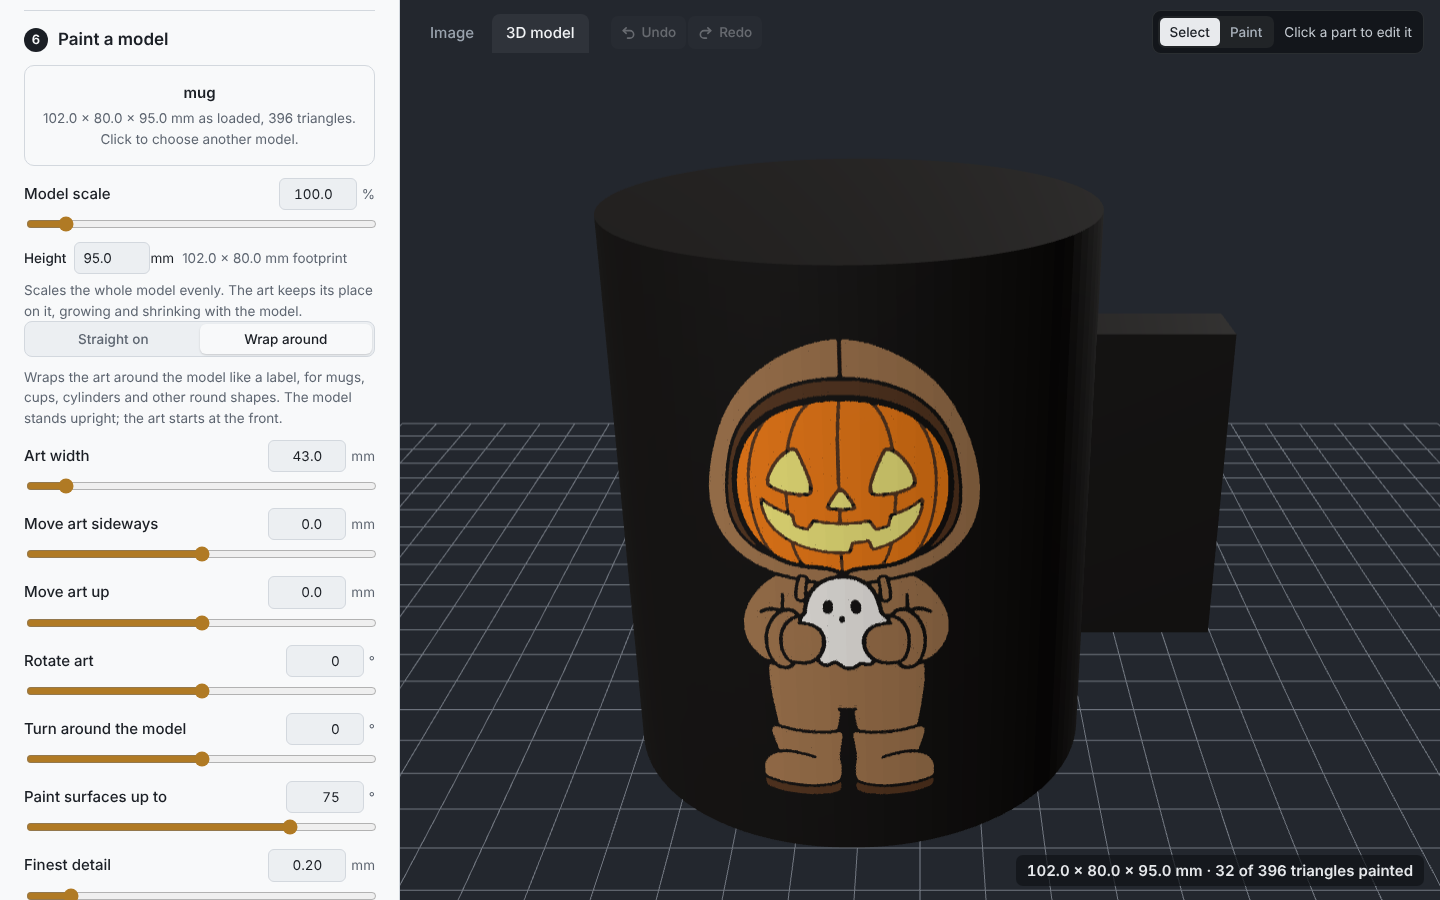
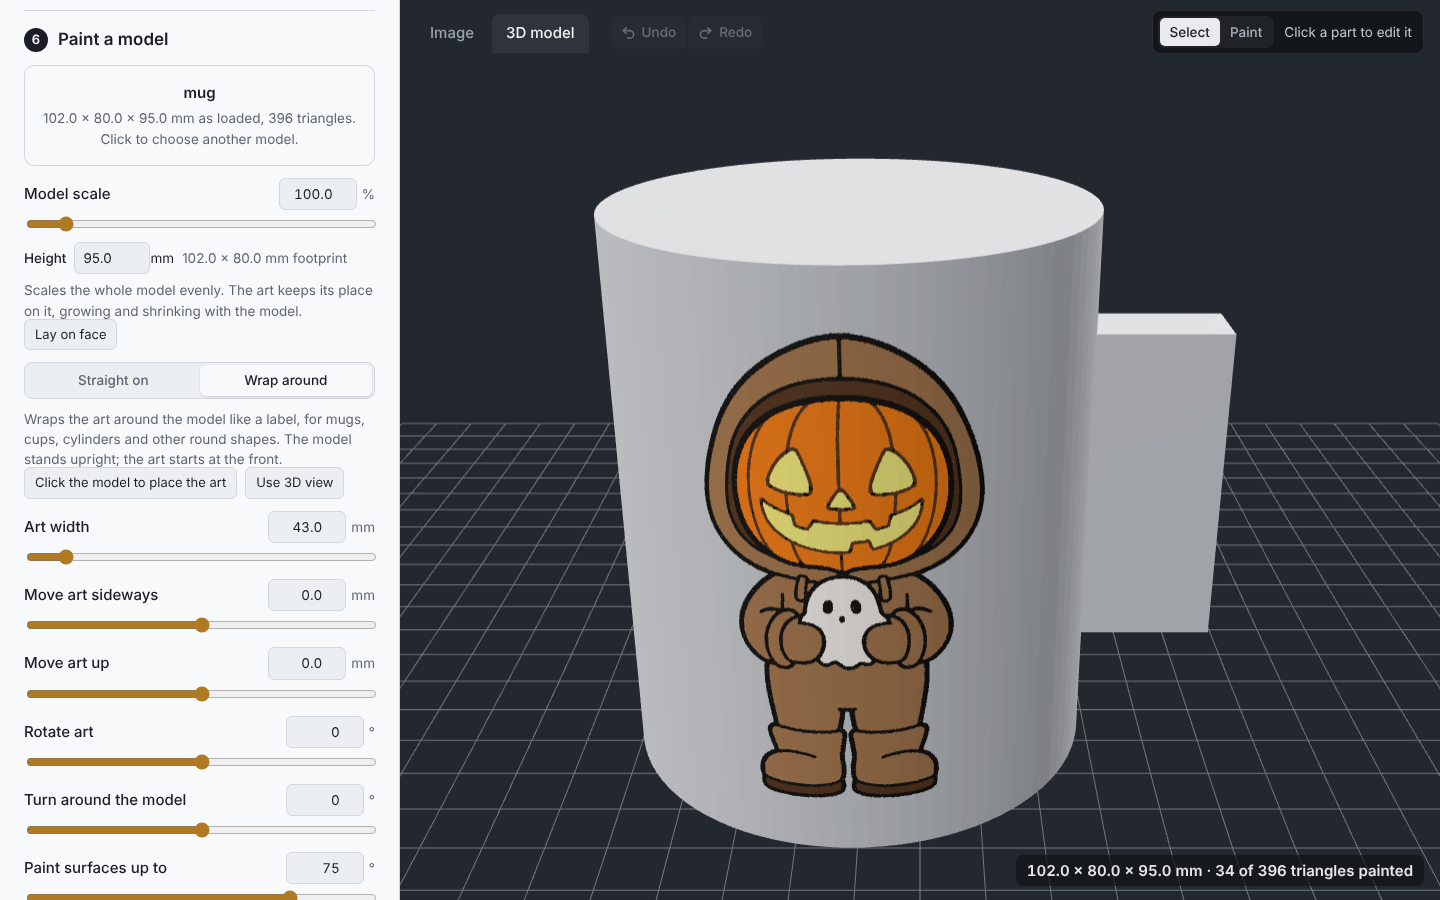
Pre-release: readable plugin, undo for 3D actions, fresh screenshots
- Plugin: the page is stored as plain text in short string literals
  (no zlib/base64 blob) and the unused browser-opening command is gone,
  for Orca Cloud review. Verified loading, the tab and Reset in
  OrcaSlicer 2.5.1.
- Undo/redo now restore Lay on face and Click to place (orientation,
  clicked spot and view direction), re-aiming the camera only when the
  model turned.
- README screenshots retaken with the current UI.

Claude-Session: https://claude.ai/code/session_01VHt89tUmM73nKs4biTZbJL

Changed region(s): [[0.4062, 0.1556, 0.875, 0.9644], [0.0, 0.3422, 0.25, 0.7778], [0.0, 0.8089, 0.2812, 1.0]]

diff --git a/src/app.html b/src/app.html
@@ -1899,8 +1899,11 @@ function takeSnapshot() {
     prep: p, labels, labelsId, gen: S.gen, mirror: S.mirror,
     regions: S.regions.map(r => ({ ...r })), stats: S.stats,
     baseColor: $('baseColor').value, baseSpool: S.baseSpool || null, controls: controlState(), rimCustom: { ...S.rimCustom }, textC: { ...S.textC },
+    // Paint a model: which way the model lies and where the art was clicked into place, so undo covers those too
+    paint: S.modelOrig ? { orig: S.modelOrig, click: S.pmClick ? JSON.parse(JSON.stringify(S.pmClick)) : null, viewDir: S.pmViewDir, viewUp: S.pmViewUp || null } : null,
   };
-  snap.key = JSON.stringify([snap.gen, snap.mirror, snap.regions.map(r => [r.name, r.filament, r.height, r.merge, r.pixels, r.spool && spoolKey(r.spool), r.stamp]), snap.baseColor, snap.baseSpool && spoolKey(snap.baseSpool), snap.controls, Object.values(snap.rimCustom).map(c => c && [c.color, c.spool && spoolKey(c.spool)]), [snap.textC.color, snap.textC.spool && spoolKey(snap.textC.spool)]]) + '|' + labelsId;
+  if (snap.paint && !snap.paint.orig.uid) snap.paint.orig.uid = ++H.seq;
+  snap.key = JSON.stringify([snap.gen, snap.mirror, snap.regions.map(r => [r.name, r.filament, r.height, r.merge, r.pixels, r.spool && spoolKey(r.spool), r.stamp]), snap.baseColor, snap.baseSpool && spoolKey(snap.baseSpool), snap.controls, Object.values(snap.rimCustom).map(c => c && [c.color, c.spool && spoolKey(c.spool)]), [snap.textC.color, snap.textC.spool && spoolKey(snap.textC.spool)], snap.paint && [snap.paint.orig.uid, snap.paint.click, snap.paint.viewDir, snap.paint.viewUp]]) + '|' + labelsId;
   return snap;
 }
 function recordState() {
@@ -1937,6 +1940,15 @@ function restoreSnapshot(s) {
     }
     renderRegions(); renderRimOptions();
     for (const [el, v] of selects) if ([...el.options].some(o => o.value === v)) el.value = v;
+    if (s.paint) {
+      // rebuild the model at the restored scale from the restored orientation (S.model = null so nothing is rescaled twice)
+      const turned = S.modelOrig !== s.paint.orig, keepView = !!(gl && gl.framed && !turned);
+      S.modelOrig = s.paint.orig; S.model = null;
+      S.pmClick = s.paint.click ? JSON.parse(JSON.stringify(s.paint.click)) : null; S.pmViewDir = s.paint.viewDir; S.pmViewUp = s.paint.viewUp;
+      applyModelScale(false); if (keepView) gl.framed = true; // only re-aim the camera when the model turned
+      $('pmLayReset').hidden = S.modelOrig === S.modelLoaded;
+      setPlacing(false); setLaying(false); syncPmMode();
+    }
     syncRimField(); $('imgHField').hidden = !$('uniformH').checked; $('fFields').hidden = !$('fOn').checked; $('ckStampFields').hidden = !$('ckStamp').checked; syncCoinMode(); syncKcShape(); syncTextUI(); syncTextFil();
     if (typeof syncSize === 'function' && S.gen === 'tray') syncSize();
     drawThumbs(); drawPreview(); renderPaintSwatches();
@@ -2770,10 +2782,6 @@ if (ORCA) {
   const syncTheme = () => { const t = root.getAttribute('data-orca-theme'); if (t === 'dark' || t === 'light') root.dataset.theme = t; };
   syncTheme(); new MutationObserver(syncTheme).observe(root, { attributes: true, attributeFilter: ['data-orca-theme'] });
   root.style.setProperty('--focus', 'var(--orca-accent, #009688)');
-  document.addEventListener('click', e => {
-    const a = e.target.closest && e.target.closest('a[target=_blank]'); if (!a) return;
-    e.preventDefault(); window.orca.postMessage({ cmd: 'open', url: a.href });
-  });
   const askSlots = () => { if (alive()) window.orca.postMessage({ cmd: 'hello' }); };
   $('slotRefresh').addEventListener('click', askSlots);
   // Reset: the plugin sends a fresh copy of this page, which replaces the document in place.

diff --git a/plugin/plugin_template.py b/plugin/plugin_template.py
@@ -22,14 +22,13 @@ part its filament slot; it carries no printer or filament settings, so Orca keep
 
   page   --{cmd: 'hello'}-->            plugin   (replies {cmd: 'slots', slots, plate})
   page   --{cmd: 'send', name, b64}-->  plugin   (writes the 3MF, hands it to Orca, replies {cmd: 'sent'})
-  page   --{cmd: 'open', url}-->        plugin   (opens a link in the default browser)
+  page   --{cmd: 'reset'}-->            plugin   (replies {cmd: 'page', html}: a fresh copy of the page)
 """
 import base64
 import os
 import re
 import subprocess
 import sys
-import zlib
 
 import orca
 
@@ -38,14 +37,16 @@ PLUGIN_DIR_NAME = "maker-generators"
 KEEP_SENT_FILES = 12
 MAX_MODEL_BYTES = 300 * 1024 * 1024
 
-# The generator page: one self-contained HTML file (three.js and fonts inlined), zlib + base64.
-_PAGE_Z = (
+# The generator page: one self-contained HTML file, stored as plain text so it can be read and reviewed.
+# It is the web app from the project's src/ folder with three.js (MIT) and the Google Fonts it uses
+# (SIL Open Font License) inlined, so the plugin works offline. Built by tools/build.py.
+_PAGE = (
 __PAGE_DATA__
 )
 
 
 def page_html():
-    return zlib.decompress(base64.b64decode("".join(_PAGE_Z))).decode("utf-8")
+    return "".join(_PAGE)
 
 
 # ---------------------------------------------------------------- Orca state for the page
@@ -294,11 +295,6 @@ def handle_message(post, message):
         post({"cmd": "page", "html": page_html()})
     elif command == "send":
         send_model(post, message)
-    elif command == "open":
-        url = str(message.get("url") or "")
-        if re.match(r"^https://", url):
-            import webbrowser
-            webbrowser.open(url)
 
 
 # ---------------------------------------------------------------- the tab in Orca's top bar

diff --git a/tools/build.py b/tools/build.py
@@ -12,7 +12,7 @@ Targets
 The version comes from the VERSION file and is stamped into the page, plugin, desktop config,
 installer script and package.json on every build.
 """
-import base64, os, re, shutil, sys, zlib
+import base64, os, re, shutil, sys
 
 ROOT = os.path.dirname(os.path.dirname(os.path.abspath(__file__)))
 SRC, VENDOR, DIST = (os.path.join(ROOT, d) for d in ('src', 'vendor', 'dist'))
@@ -87,8 +87,9 @@ def build_plugin():
         js = read(VENDOR, name)
         assert '</script' not in js.lower()
         page = replace_once(page, f'<script src="{url}"></script>', '<script>' + js + '</script>')
-    packed = base64.b64encode(zlib.compress(page.encode('utf-8'), 9)).decode()
-    lines = '\n'.join('    "%s"' % packed[i:i + 100] for i in range(0, len(packed), 100))
+    # plain text in short Python string literals (ascii() escapes anything outside ASCII), so the plugin
+    # can be read and reviewed; no compressed or encoded blob
+    lines = '\n'.join('    ' + ascii(page[i:i + 160]) for i in range(0, len(page), 160))
     out = os.path.join(DIST, 'maker_generators_orca_plugin.py')
     write(out, read(ROOT, 'plugin', 'plugin_template.py').replace('__PAGE_DATA__', lines))
     print('plugin  ', os.path.relpath(out, ROOT))

diff --git a/CHANGELOG.md b/CHANGELOG.md
@@ -17,6 +17,8 @@
 - **Click to place**: press *Click the model to place the art*, then click the spot in the 3D view. Straight on, the art is painted facing that surface, upright as the 3D view shows it, so *Move art up* and *sideways* follow the screen; wrapped, the click sets how far round and how high it sits.
 
 ### Other changes
+- Undo and redo cover *Lay on face* and *Click to place*.
+- OrcaSlicer plugin: the generator page is stored as plain, readable text instead of a compressed blob, and unused link-opening code is gone.
 - Text can now go to the **right** or **left** of the art, centred on its height, in every generator.
 - One version number everywhere: the web app (shown next to the title), the OrcaSlicer plugin and the Windows app are all 2.0.0.
 
